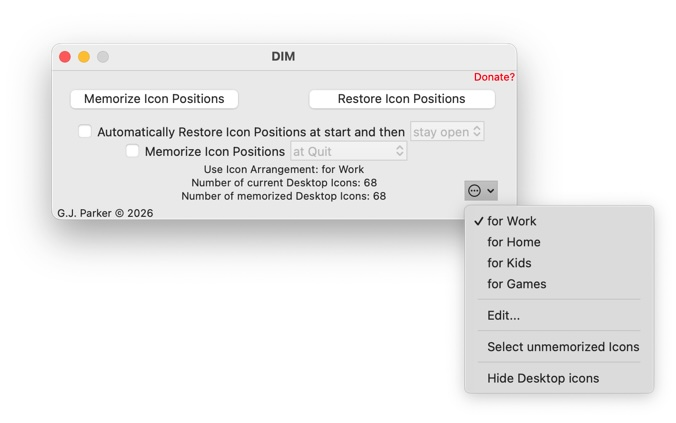
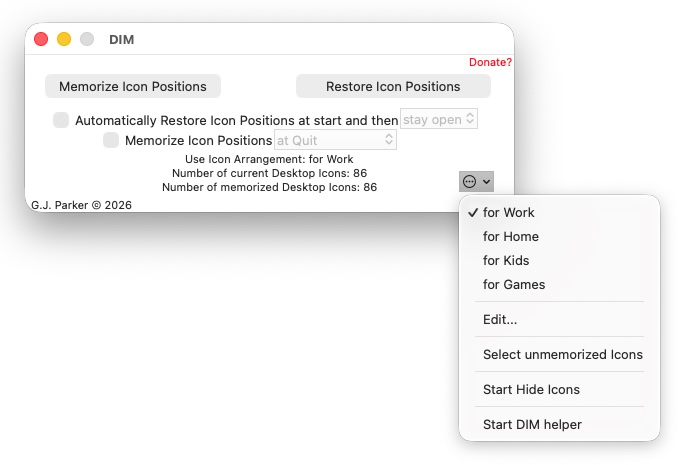
upate Help

Changed region(s): [[0.0, 0.0615, 0.9941, 0.9527], [0.4038, 0.0922, 0.4349, 0.1537]]

diff --git a/DIM/Resources/DIM 4.0.help/Contents/Resources/en.lproj/Miscellaneous.html b/DIM/Resources/DIM 4.0.help/Contents/Resources/en.lproj/Miscellaneous.html
@@ -20,13 +20,15 @@
 </b><p class="Left Normal">Multiple monitors are <i>technically</i> not supported. However, my own use (along with 100s of users) show no problems if both monitors’ arrangements are not changed between the “Memorize Icon Positions” and “Restore Icon Positions”. The worst case scenario here is that some icons may be placed outside of either monitors’ viewing area. If this is the case, click anywhere on the Desktop and then in the Finder’s View menu, simply select Clean Up and all the icons will reappear, most likely in places you don’t like, but at least you can rearrange them. </p>
 <p class="Left Normal"><b>3) Tricks</b></p>
 <p class="Left Normal">After the first time use, specifying DIM as a Login Item will adjust the icons positions after the Finder starts up (make sure to check “Automatically Restore Icon Positions at start” for this behavior).</p>
-<p class="Left Normal">DIM uses its own preference file (stored in ~/Library/Containers/DIM) so previous versions of DIM will still work and different users can use the same application for their own Desktop and Finder windows.</p>
+<p class="Left Normal">DIM uses its own preference file (stored in ~/Library/Containers/DIM or ~/Library/Group Containers/group.com.parker9.DIM-4 for v4.6+) so previous versions of DIM will still work and different users can use the same application for their own Desktop and Finder windows. Starting in version 4.6, preferences are stored in an App Group preference. This allows for data exchange between sandboxed applications (here, DIM Helper and Hide Icons). The old preference file will be used to create the initial Add Group preferences but otherwise ignored for versions 4.6+.</p>
 <p class="Left Normal">If "Memorize icon Postions" is checked and "at Quit" is selected then quiting, log off, restart and shutdown all trigger a memorization.  </p>
 <p class="Left Normal"><b>4) Exporting/Importing Settings</b></p>
 <p class="Left Normal">You can import/export DIM Settings from the File menu. Please note, Settings may contain sensitive information (e.g. icon names). These Settings are transferrable between different users and/or Macs. Exported Settings can be viewed in Xcode or via Terminal by using "defaults read <i>exported_settings_file</i>" command. During import, one has options to completely replace the current Settings, merge into current Settings or merge current Settings into the imported Settings. For the latter two options, if the current Settings and imported Settings share an icon Arrangment the resulting icon Arrangemnt will be the union of the two if "include any missing icons" is selected otherwise the specified icon Arrangment is used.</p>
 <p class="Left Normal"><b>5) Checking for updates</b></p>
 <p class="Left Normal">DIM allows one to check for updates from the main DIM menu. If an update is available, you can either download directly through DIM or use a browser to retrieve the update. Checking for updates may take awhile depending of local machine load and network connection quality. Regardless, no information is sent to the servers other than your IP number which is only tracked by the hosting servicer.</p>
-<p class="Left Normal"><b>5) FAQ</b></p>
+<p class="Left Normal"><b>6) System Events</b></p>
+<p class="Left Normal">If DIM Helper is running, you can have DIM respond to certain system events (for example: login, computer wake, etc.) with various actions (for example: restore, quit, etc.) if DIM is <i>not</i> running.  One can use both the Login event and the default behavior of how DIM starts since any actions caused by an event bypasses the default start behavior of DIM. Finally, DIM must not be running when any action is triggered, otherwise the actions will be ignored.</p>
+<p class="Left Normal"><b>7) FAQ</b></p>
 <p class="Left Normal"><i><u>DIM doesn’t seem to be working correctly, what’s going on?</u></i><u> </u>Strange, it’s been working fine for me and many others. First, you are running macOS 10.10 or later? If not, go find <a href="http://www.parker9.com/desktopIconManager4.html#d">DIM 2.1.0</a>, that should work for you (unless you're really old school and are running System 7.5-9, then you need <a href="http://www.parker9.com/desktopIconManager4.html#d">DIM 1.3.1</a>). Next, with DIM not running, try deleting the folder ~/Library/Containers/DIM/ (the “~” means your home directory, you’ll probably need to use Finder’s Go>Go to Folder… to get there). Later versions of macOS cache some files, so a logout/restart may be necessary. Then try DIM again. If that doesn’t work, try downloading a fresh copy of DIM. If still not working, perhaps macOS has decided not to allow DIM to talk to the Finder. Go to System Settings…>Privacy & Security and select Automation on the right tab, it should have an entry for DIM on the right that looks something like
 <img src="Miscellaneous.jpg" alt="" />
 </p>
@@ -39,13 +41,13 @@
 <p class="Left Normal"><i><u>Instead of icons, can DIM place windows at saved locations?</u></i> Yes, but only for windows in Icon View.</p>
 -->
 <p class="Left Normal"><i><u>When “Automatically Restore Icon Positions at start” and “Quit” are selected, the countdown is too slow/fast!</u></i> The integer <em>quitCount</em> in DIM's plist file is how many 1/5 of a second to wait before quiting. If not present, the value is assumed to be 20. <em>defaults write com.parker9.DIM-4 quitCount 50</em> in the Terminal would cause DIM to wait 10 seconds before quiting.</p>
-<p class="Left Normal"><i><u>After waking from sleep or the number/position of displays change, DIM will automatically Restore Icon Positions.</u></i> The double <em>waitRestore</em> in DIM's plist file is how many seconds to wait before restoring. If not present, the value is assumed to be 10.0. <em>defaults write com.parker9.DIM-4 waitRestore -float 3.5</em> in the Terminal would cause DIM to wait 3.5 seconds before restoring after waking. A value of 0.0 will stop the automatic restore.</p>
+<p class="Left Normal"><i><u>After waking from sleep or the number/position of displays change, DIM will automatically Restore Icon Positions.</u></i> The double <em>waitRestore</em> in DIM's plist file is how many seconds to wait before restoring. If not present, the value is assumed to be 10.0. <em> defaults write ~/Library/Group\ Containers/group.com.parker9.DIM-4/Library/Preferences/group.com.parker9.DIM-4.plist waitRestore -float 3.5</em> (or <em>defaults write com.parker9.DIM-4 waitRestore -float 3.5</em> for versions before 4.6) in the Terminal would cause DIM to wait 3.5 seconds before restoring after waking. A value of 0.0 will stop the automatic restore.</p>
 <p class="Left Normal"><i><u>Checking for updates doesn't seem to be working</u></i> To check for updates, the Mac must be connected and have access to the internet. If you are getting an error, it probably means that one or more of the servers are down. Simply try again in a few minutes. DIM also needs read/write permission to the Download folders. If it continues to fail, please contact us with any errors it is displaying and what version of DIM is being used.</p>
 <p class="Left Normal"><i><u>I want to uninstall DIM, what do I do?</u></i> Uninstalling DIM is done by simply dragging DIM to the Trash. DIM also created a folder in your home directory at ~/Library/Containers/DIM which you can either delete or leave.</p>
 <p class="Left Normal"><i><u>Hey, I want to send you money for such a cool thing, how can I do that?</u></i> Really? I’m sure my wife (and kids) would like that, but it’s not required. If you really do, on the upper right corner, hit the red “Donate?”. Thanks in advance!</p>
-<p class="Left Normal"><b>6) Files in the distribution</b></p>
+<p class="Left Normal"><b>8) Files in the distribution</b></p>
 <p class="Left Normal">This distribution zip should contain the DIM application and a README file. The actual source code and everything needed to recompile DIM is stored on github. Check the README file for the github address (currently <a href="https://github.com/com-entonos/Desktop-Icon-Manager">https://github.com/com-entonos/Desktop-Icon-Manager</a>).</p>
-<p class="Left Normal"><b>7) Warning/Disclaimer/Licenses</b></p>
+<p class="Left Normal"><b>9) Warning/Disclaimer/Licenses</b></p>
 <p class="Left Normal">Using this application won’t make you more attractive or get you rich. It may even do something horrible to your Mac, though I definitely hope not. Regardless, I haven’t tried to make it completely robust with all possible things that can go wrong. So, for instance, if you run out of storage space while it’s running, I don’t have a clue what it will do. Hopefully just complain and quit. I do know nothing in this application itself will hurt your Mac, but as you know- garbage in is garbage out.</p>
 <p class="Left Normal">I wrote this for my personal use. I find it useful. I also know 1000s (if not 10,000s) have also found it useful. It’s free and you can give the distribution (i.e. as you got it) to anyone you want. You can’t sell it, though. And if you modify the script and don’t give me credit for the original, you’re simply evil. Don't be evil.</p>
 

diff --git a/DIM/Resources/DIM 4.0.help/Contents/Resources/en.lproj/After_the_first_time_use.html b/DIM/Resources/DIM 4.0.help/Contents/Resources/en.lproj/After_the_first_time_use.html
@@ -58,13 +58,14 @@
 <p class="Left Normal"><b>9) Which icons are not saved in an Arrangement</b></p>
 <p class="Left Normal">By choosing the “Select unmemorized Icons” option in the action (
 <img src="After_the_first_time_use.jpg" alt="" />
-) drop down menu, any icons on the Desktop/Finder window that are <b>not</b> in the current Icon Arrangement will be selected on the Desktop/Finder window. If no such icons exists, you will be rewarded with a beep.</p>
+) drop down menu, any icons on the Desktop/Finder window that are <b>not</b> in the current Icon Arrangement will be selected on the Desktop/Finder window. If no such icons exist, you will be rewarded with a beep.</p>
 <p class="Left Normal"><b>10) Hiding/unhiding Desktop icons</b></p>
 <p class="Left Normal">By choosing the “Hide Desktop Icons” option in the action (
 <img src="After_the_first_time_use.jpg" alt="" />
 ) drop down menu, any icons on the Desktop will be hidden. By selecting "Show Desktop Icons", they will be unhidden.</p>
+<p class="Left Normal">On macOS 13 (Ventura) and later, the app <a href="https://parker9.com/HideIcons.html#d">Hide Icons</a> is bundled inside of DIM as a LoginItem. By choosing "Start Hide Icons", Hide Icons will be run immediately and at login. You can stop it either through DIM or directly through Hide Icons menu.</p>
 <p class="Left Normal"><b>11)  Checking for updates</b></p>
-<p class="Left Normal">By selecting "Check for update..." in the main DIM menu, you are granting permision for DIM to reach out (via https) to an update server. If there is no update available or an error occurs, then this menu item will be updated accordingling. Otherwise a sheet will appear on the main DIM window giving an option of downloading the update, visiting the website or canceling. If downloading is choosen, the update will be downloaded to the local Downloads folder and the menu item will change to "Locate new update". You should then quit DIM and replace it with the updated version. Otherwise, if there is an error, the menu item will be updated.</p>
+<p class="Left Normal">By selecting "Check for update..." in the main DIM menu, you are granting permission for DIM to reach out (via https) to an update server. If there is no update available or an error occurs, then this menu item will be updated accordingly. Otherwise a sheet will appear on the main DIM window giving an option of downloading the update, visiting the website or canceling. If downloading is chosen, the update will be downloaded to the local Downloads folder and the menu item will change to "Locate new update". You should then quit DIM and replace it with the updated version. Otherwise, if there is an error, the menu item will be updated.</p>
 <p class="Left Normal"><b>12)  Starting from the command line (Terminal or script)</b></p>
 <p class="Left Normal">One can start DIM from the Terminal command line by typing <em>open -a DIM</em> (or <em>open -b com.parker9.DIM-4</em>). One can also pass command line arguments via <em>open -a DIM --args [...]</em> option. The list of valid command line arguments are:</p>
 <p class="Left Normal">
@@ -87,9 +88,17 @@
     <dd>quit DIM</dd>
 </dl>
 </p>
-<p class="Left Normal">where <em>[arrangement]</em> is an optional name of the Icon Arrangement to use. If not provided, the current Arrangement is assumed. Multiple options can be invoked and they will execute from left to right. Therefore, if "--quit" is present, it should be the last option on the command line. For example, <em>open -a DIM --args --add "Start Up" --restore --select-missing-icons</em> would memorize the current Desktop icon arrangment in "Start Up" arrangement (creating one if necessary). Then DIM restores the icons according to the current arrangement. And finally DIM would select any icons that are not present in the current arrangement. DIM will stay open, since the <em>--quit</em> option was not used.</p>
+<p class="Left Normal">where <em>[arrangement]</em> is an optional name of the Icon Arrangement to use. If not provided, the current Arrangement is assumed. Multiple options can be invoked and they will execute from left to right. Therefore, if "--quit" is present, it should be the last option on the command line. For example, <em>open -a DIM --args --add "Start Up" --restore --select-missing-icons</em> would memorize the current Desktop icon arrangement in "Start Up" arrangement (creating one if necessary). Then DIM restores the icons according to the current arrangement. And finally DIM would select any icons that are not present in the current arrangement. DIM will stay open, since the <em>--quit</em> option was not used.</p>
 <p class="Left Normal"><b>13)  Quick Restore and Memorize</b></p>
 <p class="Left Normal">By right-clicking (or holding) the Dock icon, a menu for Restore or Memorize each of the stored Arrangement allows for quick Restore/Memorize. "Restore" and "Memorize" options use the current Arrangement. Holding the option key (⌥) while invoking the Dock menu changes "Memorize" to "Purge". One can Hide DIM so it doesn't take any screen space.</p>
+
+<p class="Left Normal"><b>14)  DIM Helper and actions after certain events</b></p>
+<p class="Left Normal">By choosing the “Start DIM Helper” in the action (
+<img src="After_the_first_time_use.jpg" alt="" />
+) drop down menu, you will then be able to specify actions DIM should take when certain system events occur. Once again, in the action menu, select "Edit actions..." under the "DIM helper is running". The following will be presented:</p>
+<p class="Left Normal"><img src="After_the_first_time_use7.jpg" alt="" /></p>
+<p class="Left Normal">Clicking on any one Event on the left, you can Enable and specify actions that should DIM should do when the event happens. You can also specify a delay between the event and executing the action(s). These actions will only occur if DIM is not running. If DIM is running when an event happens, the action(s) will not execute. Details of allowable actions are described above in <b>12</b>. By default, we enable the first three Events.</p>
+
 <p class="Left Normal"><a href="Miscellaneous.html">Miscellaneous</a></p><a href="Miscellaneous.html">
 <p class="Left Normal"><a href="index.html">Index</a></p>
 

diff --git a/DIM/Resources/DIM 4.0.help/Contents/Resources/en.lproj/Contact_and_version_hist.html b/DIM/Resources/DIM 4.0.help/Contents/Resources/en.lproj/Contact_and_version_hist.html
@@ -17,13 +17,14 @@
 <p class="Left Normal">DIM’s home is located at http://www.parker9.com/script.html. Furthermore, email can be send to DIM@parker9.com and source code is available at https://github.com/com-entonos/Desktop-Icon-Manager</p>
 
 <p class="Left Normal">Version History</p>
+<p class="Left Normal">— 19 May 2026, v4.6- Move preferences to App Group preferences (~/Library/Group\ Containers/group.com.parker9.DIM-4/Library/Preferences/group.com.parker9.DIM-4.plist). Initialize AppleScriptObjC/DIMBridge on main thread via RunLoop. For macOS 13+ (Ventura and later), add DIM Helper and Hide Icons as Login Items. Helper monitors for certain events and then starts DIM with a list of actions. Hide Icons is a full menu app that hides the Desktop icons. It is a direct copy of the standalone app.</p>
 <p class="Left Normal">— 1 March 2026, v4.5.2- Avoid possible race/crash via Apple workaround: initialize AppleScriptObjC/DIMBridge on main thread.</p>
 <p class="Left Normal">— 14 February 2026, v4.5.1- Add menu items under File: "Restore(⌘R)/Memorize(⌘M)/Purge(⌥⌘M) Icon Positions". Ensure button, menu item and Dock menu reflect if option key (⌥) is down or not. Updated images and text in Help.</p>
 <p class="Left Normal">— 8 February 2026, v4.5- Three options if "Automatically Restore Icon Positions at start" is enabled: stay open, hide or quit.</p>
 <p class="Left Normal">— 26 July 2025, v4.4.1- Fix possible crash on wake or screen change.</p>
 <p class="Left Normal">— 24 July 2025, v4.4- Change default behavior of Memorize to include any missing icons. Holding option key (⌥) changes "Memorize Icon Positions" to "Purge Icon Positions" which does forget missing icons. In other words, the new "Memorize Icon Positions" is the old "include Any Missing Icons" and the old "Memorize Icon Positions" is now the new "Purge Icon Positions". Changes also reflected in Dock menu. Added boolean "startHidden" to preferences. If present and true, then DIM will Hide itself after it starts.</p>
 <p class="Left Normal">— 19 May 2025, v4.3.3- Right-clicking/holding Dock icon allows for fast Restore and Memorize.</p>
-<p class="Left Normal">— 17 March 2025, v4.3.2- If DIM is running when number of displays change, automatically do Restore Icon Positions for the current Arrangement. Bug fix for processing command line arguements- now DIM forces itself to finish each command completely before moving onto the next command in the list (thanks to Github issue report from MeAndMyRhythmbox).</p>
+<p class="Left Normal">— 17 March 2025, v4.3.2- If DIM is running when number of displays change, automatically do Restore Icon Positions for the current Arrangement. Bug fix for processing command line arguments- now DIM forces itself to finish each command completely before moving onto the next command in the list (thanks to Github issue report from MeAndMyRhythmbox).</p>
 <p class="Left Normal">— 31 January 2025, v4.3.1- If DIM is running when screens wake, automatically do Restore Icon Positions for the current Arrangement. Workaround for wandering drive icons on Desktop (thanks to Zack Wright).</p>
 <p class="Left Normal">— 12 May 2024, v4.3- Holding the option key (⌥) changes "Memorize Icon Positions" button into "include Any Missing Icons" button. Finer control when importing Settings. Added command line arguments support for opening via Terminal. Update Help to reflect these changes.</p>
 <p class="Left Normal">— 19 September 2023, v4.2- Added support for checking and downloading updates. Updated the Hider routine to reduce memory consumption. Update Help to reflect these changes.</p>
